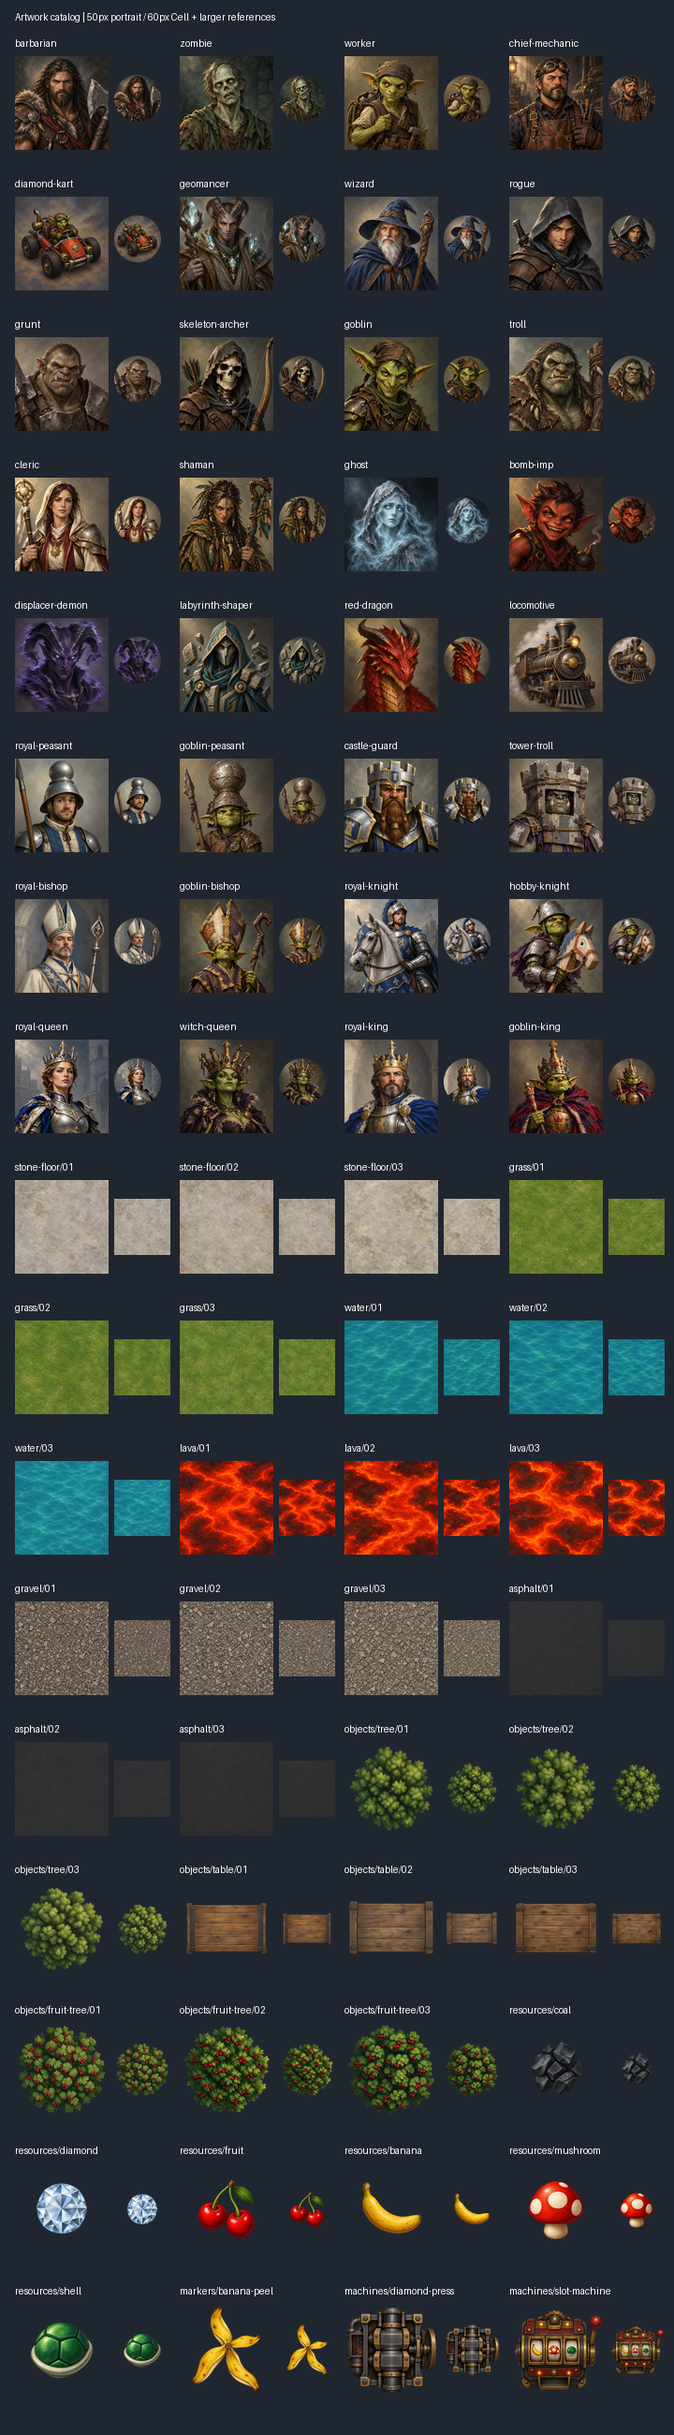
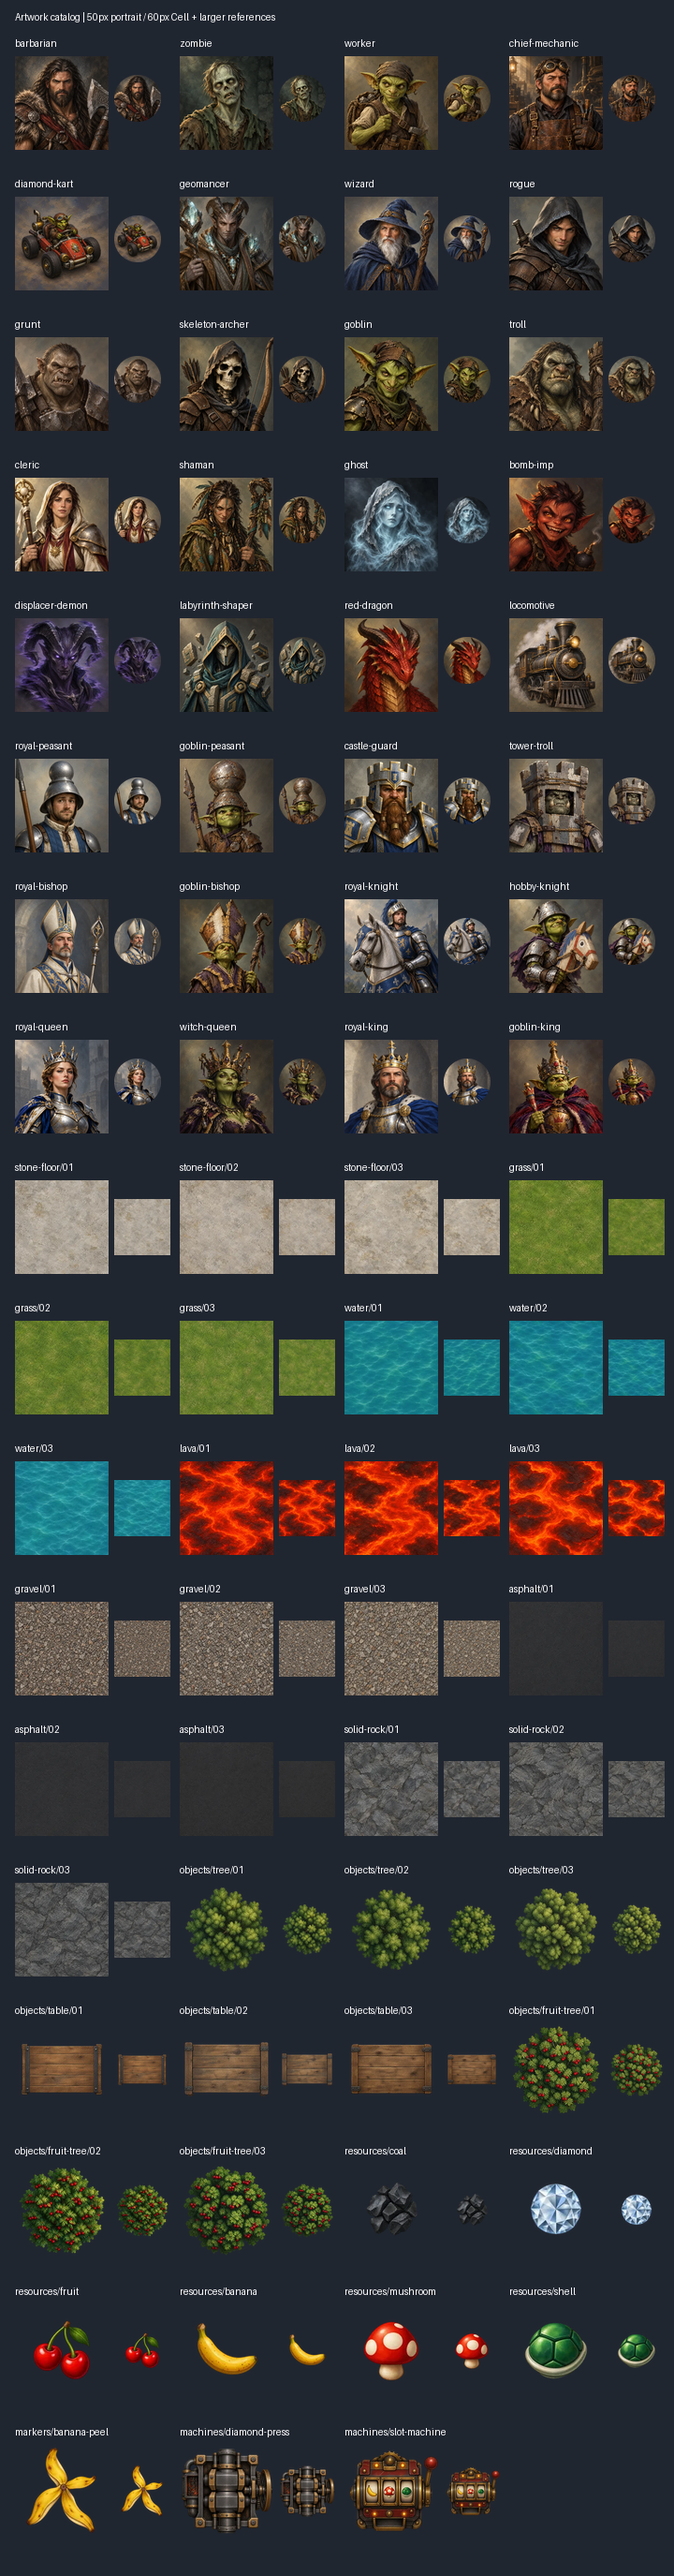
Integrate Solid Rock terrain artwork

diff --git a/ProjectDelve.Web/wwwroot/board-visuals.js b/ProjectDelve.Web/wwwroot/board-visuals.js
@@ -4,7 +4,8 @@
 export const boardVisuals = {
   terrain: {
     Unknown: { fill: "#171e29", detail: "repeating-linear-gradient(135deg, transparent 0 10px, #94a7bd0b 11px 12px)" },
-    SolidRock: { fill: "#34303e", detail: "repeating-linear-gradient(135deg, transparent 0 13px, #aea0b04a 14px 16px, transparent 17px 24px), repeating-linear-gradient(35deg, transparent 0 23px, #17132080 24px 27px)" },
+    SolidRock: { rotation: true, fill: "#34303e", detail: "repeating-linear-gradient(135deg, transparent 0 13px, #aea0b04a 14px 16px, transparent 17px 24px), repeating-linear-gradient(35deg, transparent 0 23px, #17132080 24px 27px)",
+      variants: [1, 2, 3].map(i => ({ image: `./art/terrain/solid-rock/0${i}.webp` })) },
     default: { fill: "#666a68", detail: "repeating-linear-gradient(0deg, transparent 0 48%, #242d3040 49% 51%, transparent 52% 100%)" },
     StoneFloor: { rotation: true, fill: "#666a68", detail: "repeating-linear-gradient(90deg, transparent 0 48%, #29323855 49% 51%, transparent 52% 100%)",
       variants: [

diff --git a/tools/prepare-artwork.py b/tools/prepare-artwork.py
@@ -31,7 +31,7 @@ ASSETS = [
                    "royal-bishop", "goblin-bishop", "royal-knight", "hobby-knight",
                    "royal-queen", "witch-queen", "royal-king", "goblin-king")],
     *[(f"terrain/{name}-{i:02}.png", f"terrain/{name}/{i:02}.webp", 256)
-      for name in ("stone-floor", "grass", "water", "lava", "gravel", "asphalt") for i in range(1, 4)],
+      for name in ("stone-floor", "grass", "water", "lava", "gravel", "asphalt", "solid-rock") for i in range(1, 4)],
     *[(f"terrain/objects/{name}-{i:02}.png", f"terrain/objects/{name}/{i:02}.webp", 256)
       for name in ("tree", "table", "fruit-tree") for i in range(1, 4)],
     *[(f"resources/{name}.png", f"resources/{name}.webp", 128) for name in ("coal", "diamond", "fruit", "banana", "mushroom", "shell")],
@@ -126,6 +126,7 @@ def main():
     # Roughly 50px portraits (circular UI clip) and 60px Cells, plus larger references.
     edge_preview([image for asset, image in zip(assets, decoded) if asset[0].startswith("edges/")])
     if not args.edges_only:
+        solid_rock_preview(assets, decoded)
         composite_preview(assets, decoded)
         court_preview(assets, decoded)
         object_preview(assets, decoded)
@@ -157,6 +158,23 @@ def main():
     preview = ROOT / "assets/previews/artwork-pack-01.png"
     preview.parent.mkdir(parents=True, exist_ok=True)
     sheet.save(preview, optimize=True)
+
+
+def solid_rock_preview(assets, images):
+    """Repeat each bedrock slot in 3x3 blocks at minimum and normal Cell sizes."""
+    catalog = {asset[1]: image for asset, image in zip(assets, images)}
+    sheet = Image.new("RGB", (972, 570), "#202630")
+    draw = ImageDraw.Draw(sheet)
+    draw.text((12, 8), "Solid Rock | repeated 3x3 | 60px and 100px Cells | no added grid", fill="white")
+    for slot in range(1, 4):
+        x = 12 + (slot - 1) * 324
+        draw.text((x, 30), f"solid-rock/{slot:02}", fill="white")
+        for size, top in ((60, 52), (100, 250)):
+            tile = catalog[f"terrain/solid-rock/{slot:02}.webp"].resize((size, size), Image.Resampling.LANCZOS)
+            for row in range(3):
+                for col in range(3):
+                    sheet.paste(tile, (x + col * size, top + row * size))
+    sheet.save(ROOT / "assets/previews/solid-rock.png", optimize=True)
 
 
 def court_preview(assets, images):

diff --git a/tools/test_prepare_artwork.py b/tools/test_prepare_artwork.py
@@ -34,6 +34,21 @@ class CompositeArtworkTests(unittest.TestCase):
             self.assertIn((f'terrain/asphalt-{slot:02}.png', f'terrain/asphalt/{slot:02}.webp', 256), pipeline.ASSETS)
         self.assertIn(('units/chief-mechanic.png', 'units/chief-mechanic.webp', 512), pipeline.ASSETS)
 
+    def test_solid_rock_slots_use_opaque_full_cell_exports(self):
+        for slot in range(1, 4):
+            source = f'terrain/solid-rock-{slot:02}.png'
+            destination = f'terrain/solid-rock/{slot:02}.webp'
+            with self.subTest(slot=slot):
+                self.assertIn((source, destination, 256), pipeline.ASSETS)
+                with Image.open(pipeline.SOURCE / source) as original:
+                    original.load()
+                    self.assertEqual(original.width, original.height)
+                    self.assertEqual(original.convert('RGBA').getchannel('A').getextrema(), (255, 255))
+                with Image.open(pipeline.OUTPUT / destination) as exported:
+                    exported.load()
+                    self.assertEqual(exported.size, (256, 256))
+                    self.assertEqual(exported.convert('RGBA').getchannel('A').getextrema(), (255, 255))
+
     def test_machine_and_resource_alpha_survives_export_without_crop(self):
         for category, name, size in (("machines", "diamond-press", 256), ("machines", "slot-machine", 256),
                                      ("markers", "banana-peel", 128), ("resources", "coal", 128), ("resources", "diamond", 128),

diff --git a/README.md b/README.md
@@ -547,3 +547,19 @@ All eight new originals are 1254 × 1254 RGBA PNGs with genuine transparency, no
 | `machines/slot-machine.png` | `machine.slot-machine` | `machines/slot-machine.webp` | 256 × 256 |
 
 Fruit Tree composes existing Grass with three independent deterministic object variants and quarter turns. Existing terrain hashes, variant counts/order and seed lifecycle are unchanged. Resource and Machine images retain transparent margins, glyph/error fallbacks and non-interactive decoration; ownership, storage and labels remain separate UI. The catalog, composite terrain and Machine/Resource contact sheets are generated by `tools/prepare-artwork.py`. No browser surface was connected for actual-board visual QA; previews and automated Classic/Enhanced DOM tests are not visual approval.
+
+### Solid Rock artwork
+
+Three new opaque 1254 × 1254 RGB PNG originals map to the existing `terrain.SolidRock` catalog entry. They have no embedded color profiles, EXIF orientation or animation. The existing pipeline exports the entire square without cropping, using sRGB, Lanczos and WebP quality 85/method 6.
+
+| Original under `assets/source/terrain/` | Ordered runtime path under `wwwroot/art/` | Dimensions / bytes |
+| --- | --- | --- |
+| `solid-rock-01.png` | `terrain/solid-rock/01.webp` | 256 × 256 / 18,868 |
+| `solid-rock-02.png` | `terrain/solid-rock/02.webp` | 256 × 256 / 18,712 |
+| `solid-rock-03.png` | `terrain/solid-rock/03.webp` | 256 × 256 / 18,670 |
+
+Solid Rock gains three deterministic image slots and opts into the existing independent quarter-turn rotation. Its distinct material remains beneath failed images, and Classic keeps its striped Rock presentation. Existing terrain slot counts/order, hash versions, seed derivation/lifecycle and gameplay RNG are unchanged. No renderer, CSS, rules or scenario changes are required.
+
+The recursive inventory contains 76 originals: 74 direct bitmap exports and two railway material components. All sources have pipeline/catalog mappings or the documented railway material role; no files are blocked and no runtime assets lack sources. Full re-export reproduced all 71 existing WebPs' decoded pixels and color data (ICC creation dates excluded); their original bytes and the four equivalent railway SVGs were retained. All original SHA-256 hashes remained unchanged.
+
+The regenerated [catalog sheet](assets/previews/artwork-pack-01.png) includes Solid Rock. The new [tiled preview](assets/previews/solid-rock.png) repeats each slot in a 3 × 3 block at 60px and 100px Cell sizes, without an added grid. Edge browser inspection on an isolated temporary board checked normal and approximately 60px Cells, Stone Floor contrast, both Door orientations and Open Door gaps, tokens/Side/name/HP/Posture, legal-choice feedback, reload, Classic, and Fog of War. Failed-image inspection used a disposable copy of the web root and confirmed the Rock material and portrait glyph fallbacks. Normal inspections had no console or request errors; the failure check produced the four deliberate 404s. Keyboard interaction and Door playback retain automated coverage. The existing port-5080 game was preserved.
